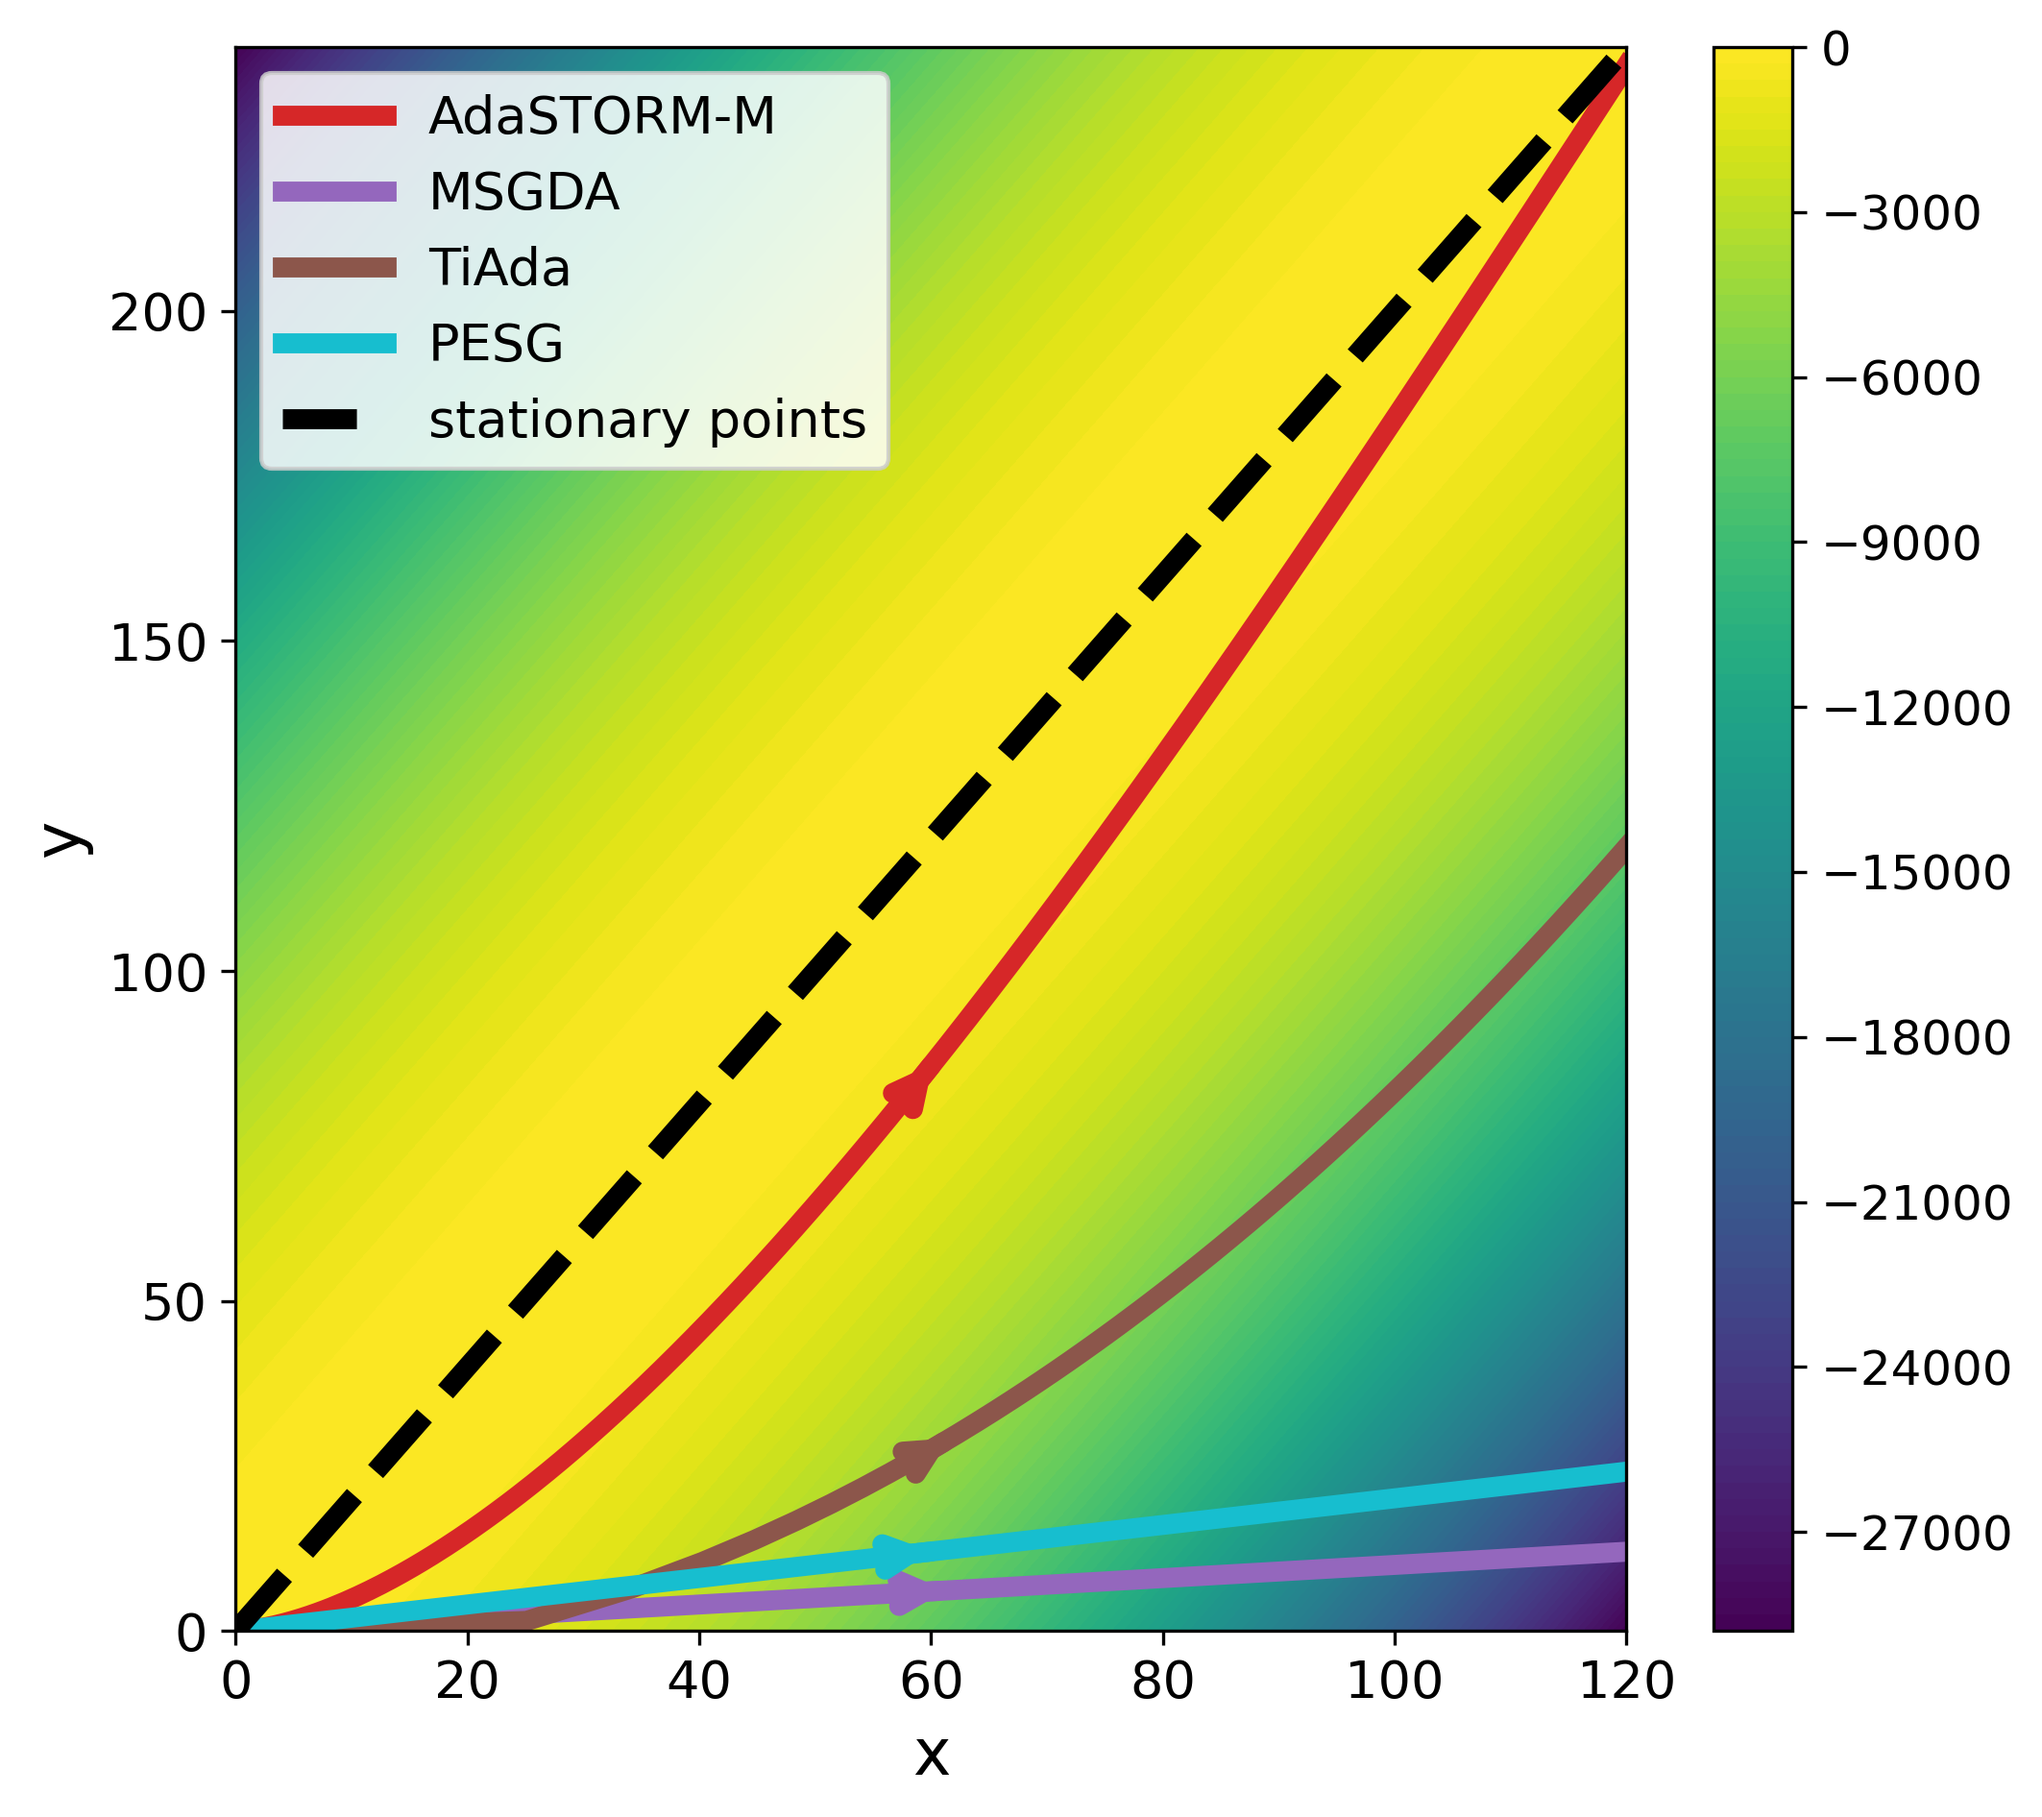
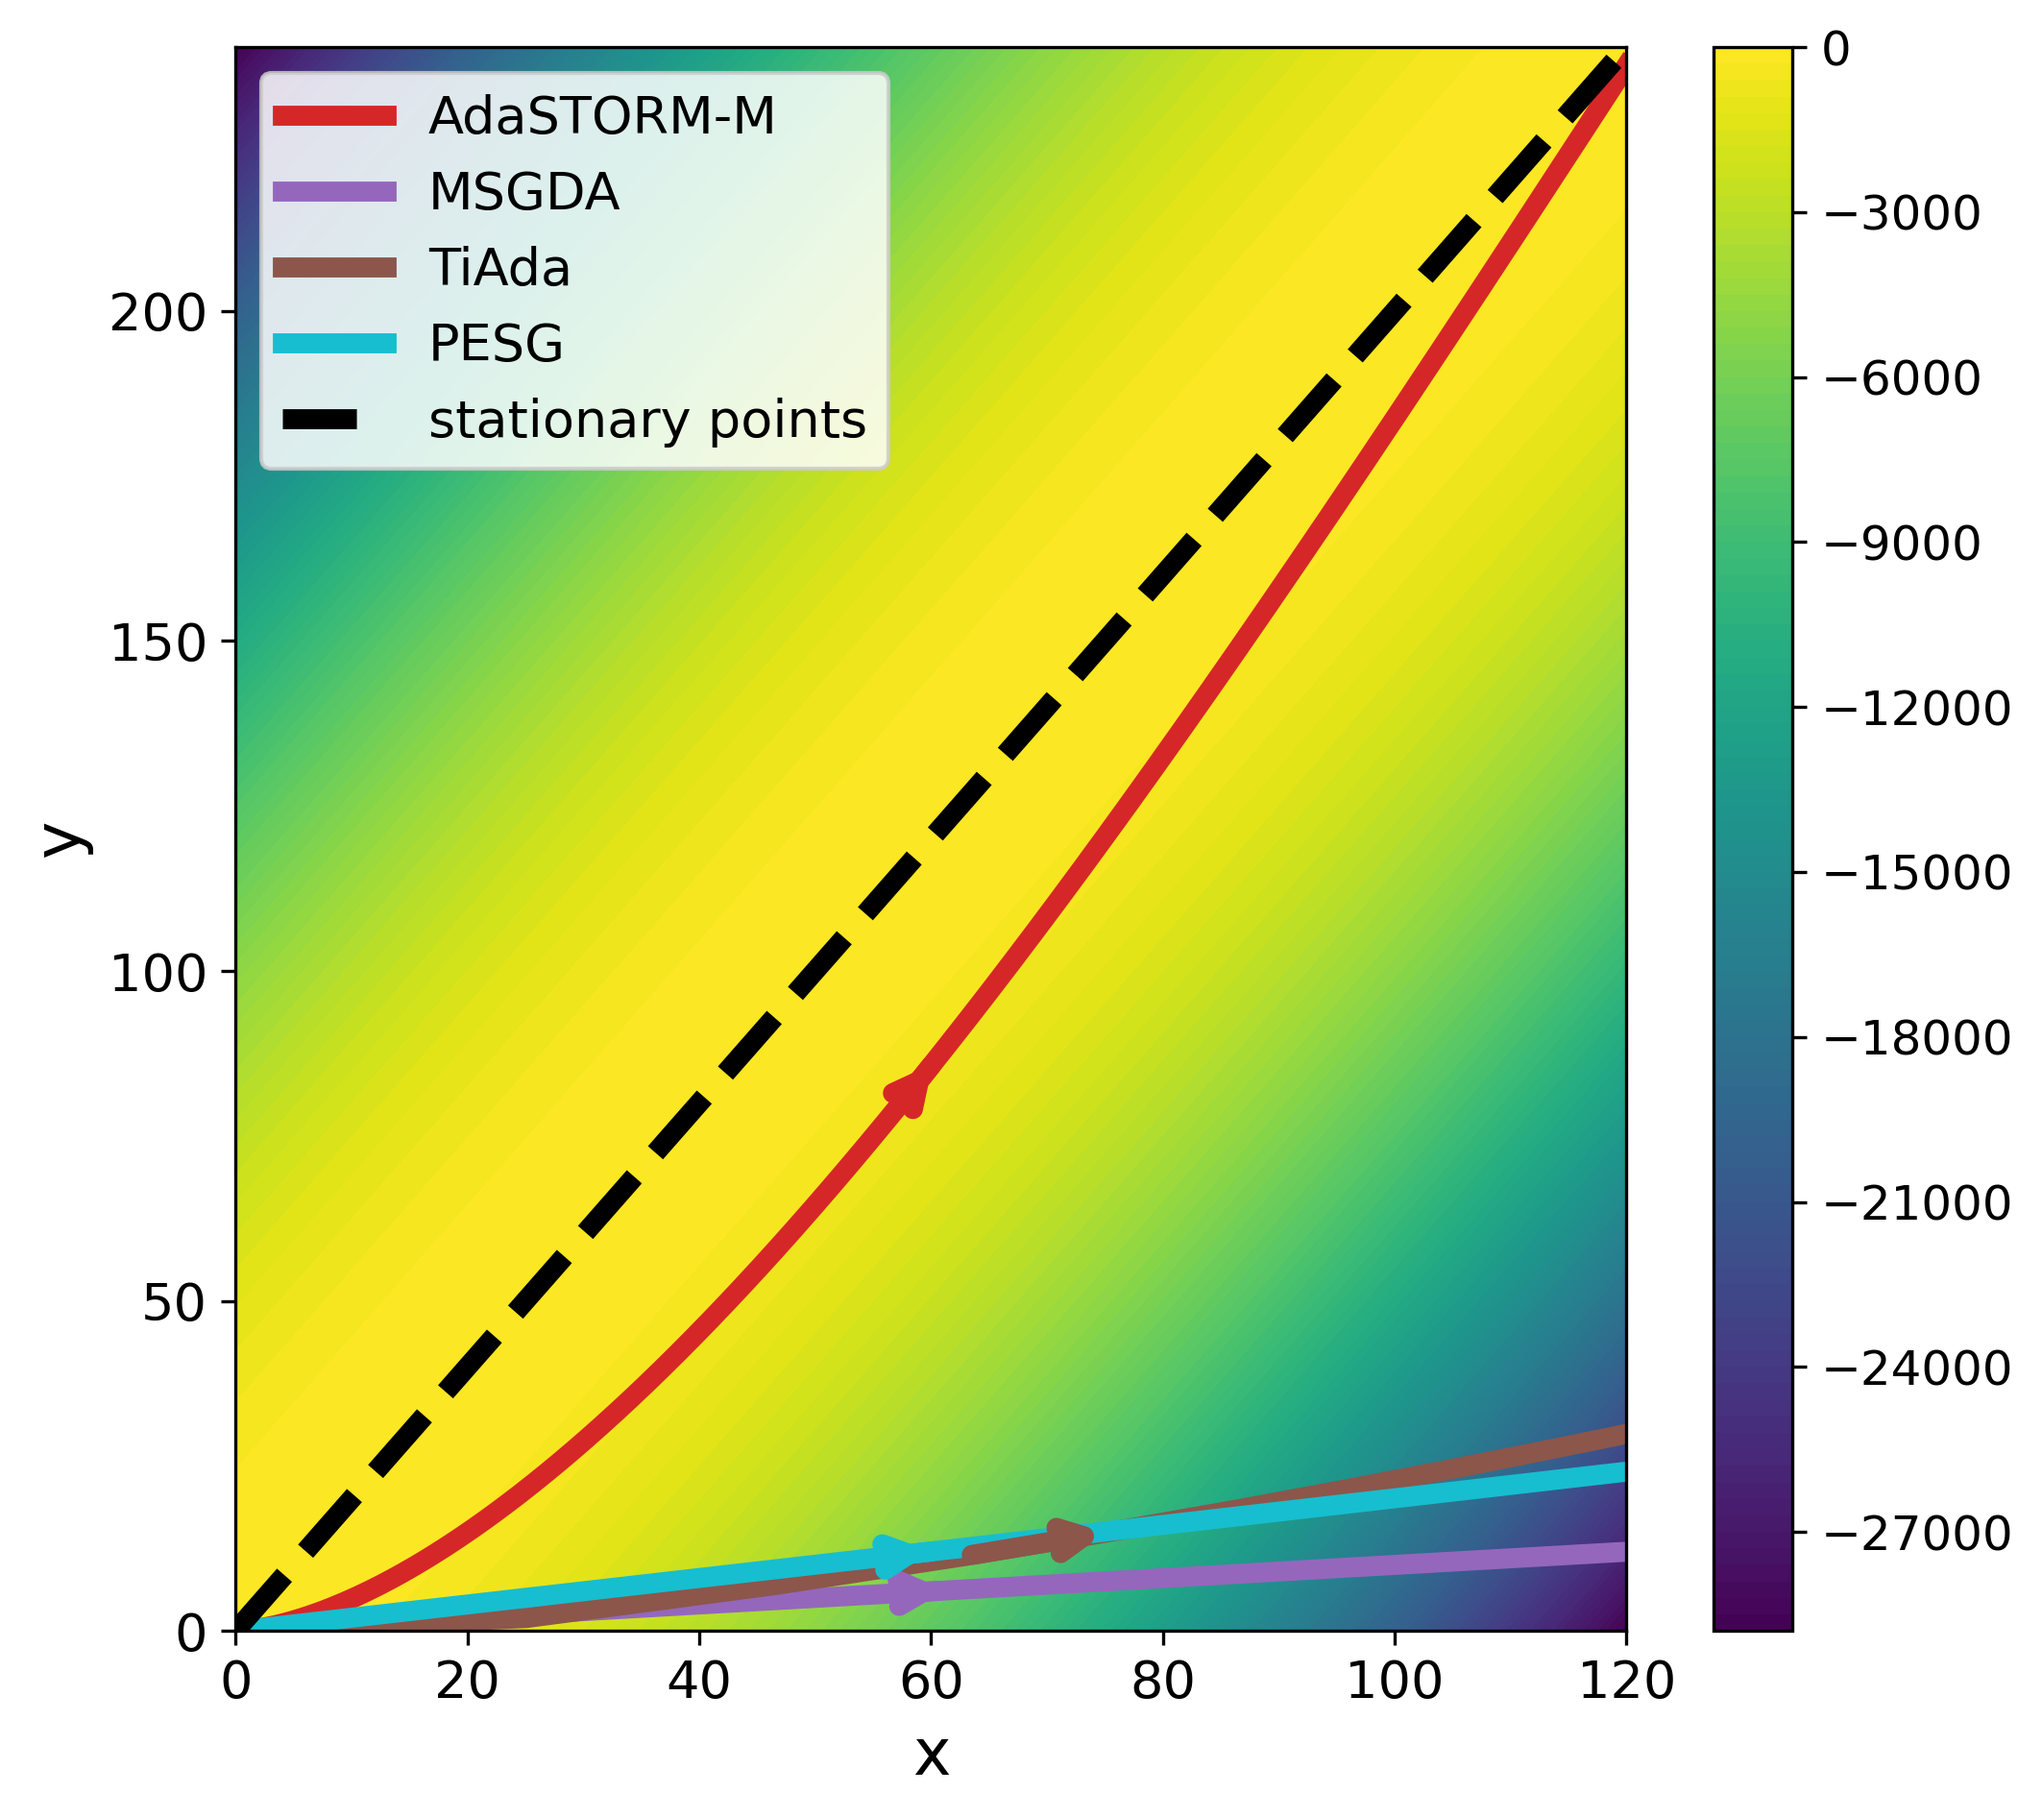
p

diff --git a/example/plot.py b/example/plot.py
@@ -270,16 +270,16 @@ def simulate_and_plot(optimizers):
         tag = "double_loop" if CONFIG == "double_loop" else "single_loop"
         base_dir = os.path.dirname(os.path.abspath(__file__))
         save_path_ratio = os.path.join(base_dir, f"plot_ratio_{tag}.png")
-        plot_ratio_comparison(ratio_data, title=f"Ratio (lr_x/lr_y) - {tag}", save_path=save_path_ratio)
+        plot_ratio_comparison(ratio_data, save_path=save_path_ratio)
     except Exception as e:
         print(f"Failed to plot ratio comparison: {e}")
 
     return None
 
 
-def plot_ratio_comparison(ratio_data, title="Ratio Comparison", save_path="plot_ratio.png"):
+def plot_ratio_comparison(ratio_data, save_path="plot_ratio.png"):
     """Plot ratio series lr_x/lr_y for multiple optimizers on one figure."""
-    plt.figure(figsize=(9.5, 4.5))
+    plt.figure(figsize=(6, 4.5))
     for name, info in ratio_data.items():
         ratios = np.asarray(info.get("ratios", []))
         color = info.get("color")
@@ -290,15 +290,16 @@ def plot_ratio_comparison(ratio_data, title="Ratio Comparison", save_path="plot_
             continue
         x = np.arange(1, len(ratios) + 1)
         plt.plot(x, ratios, label=name, color=color, linewidth=lw, linestyle=ls)
-    plt.axhline(1.0, color="#666666", linestyle="--", linewidth=1.5, alpha=0.8)
-    plt.title(title)
+    plt.axhline(0.5, color="#666666", linestyle="--", linewidth=1.5, alpha=0.8)
     plt.xlabel("Step")
-    plt.ylabel("lr_x / lr_y")
+    # Raw string for TeX label
+    plt.ylabel(r"$\eta_x / \eta_y$")
     # Set y-axis range as requested
     plt.ylim(0, 3)
-    # Truncate x-axis to 0-500 as requested (show first 500 steps)
-    plt.xlim(0, 100)
-    plt.legend(loc="best", fontsize=12, framealpha=0.85)
+    # Truncate x-axis to 0–60 as requested (show first 60 steps)
+    plt.xlim(0, 60)
+    # Place legend inside the figure (right, slightly above center)
+    plt.legend(loc="center right", bbox_to_anchor=(0.98, 0.62), fontsize=12, framealpha=0.65)
     plt.tight_layout()
     plt.savefig(save_path, dpi=300, bbox_inches="tight")
     print(f"Ratio comparison figure saved to: {save_path}")

diff --git a/example/opts.py b/example/opts.py
@@ -199,8 +199,8 @@ class TiAda2Var:
             total_x = self.sum_x.sum()
             total_y = self.sum_y.sum()
             # Convert totals to alpha-scaled magnitudes
-            txa = total_x.pow(self.alpha - 0.1)
-            tya = total_y.pow(self.alpha + 0.1)
+            txa = total_x.pow(self.alpha - 0.05)
+            tya = total_y.pow(self.alpha + 0.05)
             denom = torch.maximum(txa, tya)
             if denom.item() == 0.0:
                 return 1.0, 1.0
